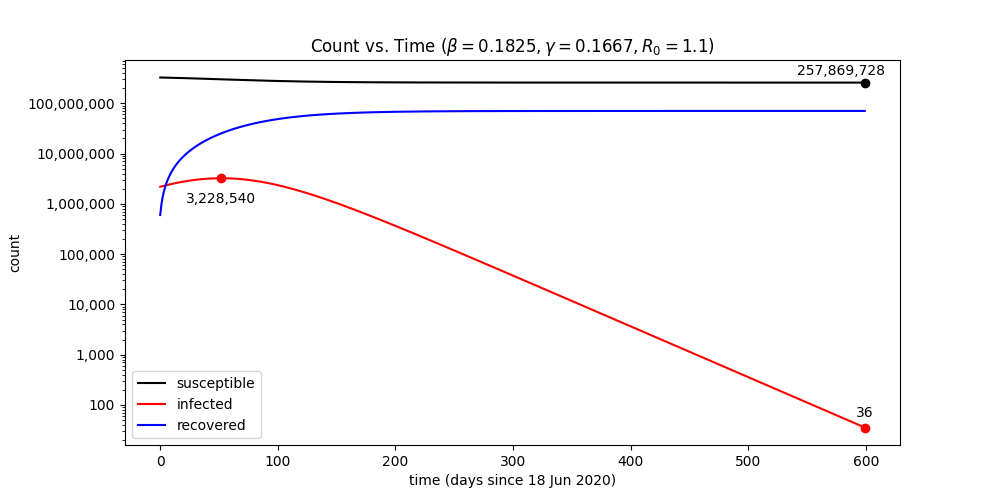
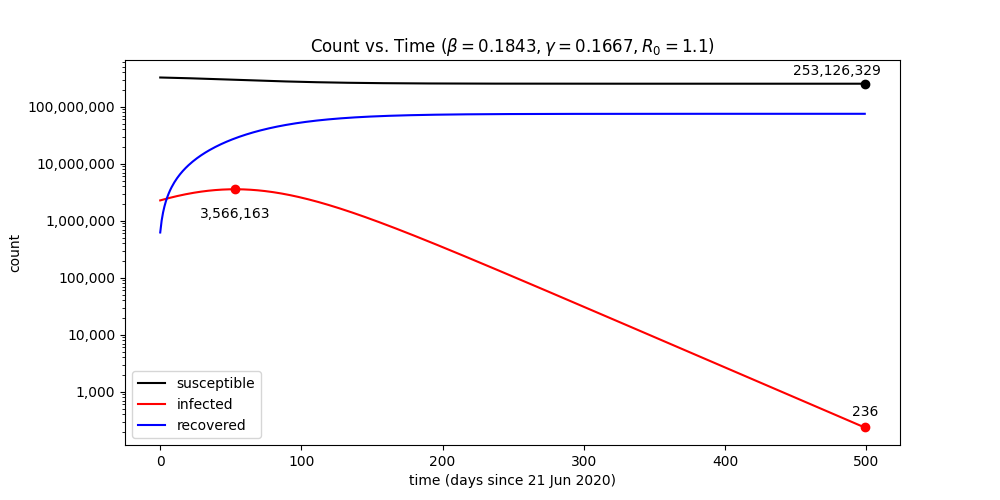
Update start date

diff --git a/scripts/model.py b/scripts/model.py
@@ -50,7 +50,7 @@ def main():
 
     # Projection
     project(
-        population=total_us_population, initial=initial, days=600, infection_rate=estimated_infection_rate,
+        population=total_us_population, initial=initial, days=500, infection_rate=estimated_infection_rate,
         recovery_rate=recovery_rate, start_date=start_date
     )
 
